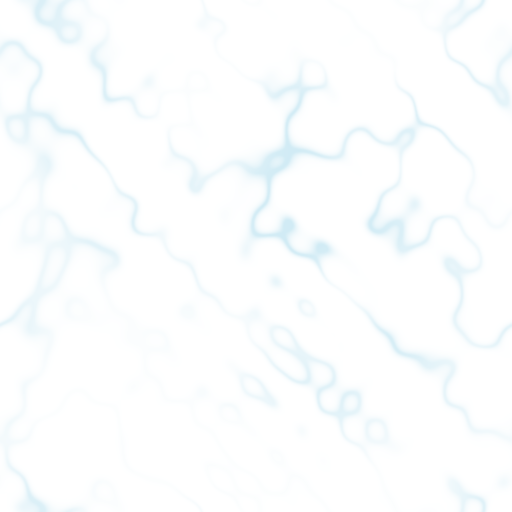
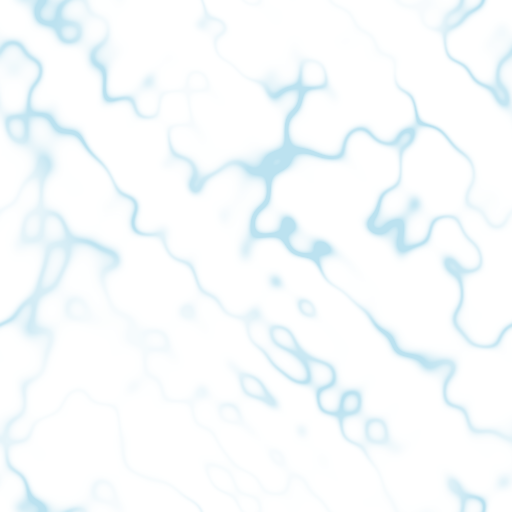
fix(scene): вернуть плотность слоя воды и яркость каустики

diff --git a/draft-front_1.2ds/src/modules/Roleplay/Scene/Service/SceneWaterService.ts b/draft-front_1.2ds/src/modules/Roleplay/Scene/Service/SceneWaterService.ts
@@ -72,12 +72,12 @@ const FLOW_SPEED_IPARI = 0.22;
  * каждый тайл, а так сумма слоёв повторяется через десятки ипари.
  */
 const PLANE_LAYERS: WaterLayer[] = [
-  { material: 'ripples', periodIpari: 8.93, angle: 0, alpha: 0.28, speedIpari: FLOW_SPEED_IPARI * 0.7, skew: 0 },
+  { material: 'ripples', periodIpari: 8.93, angle: 0, alpha: 0.4, speedIpari: FLOW_SPEED_IPARI * 0.7, skew: 0 },
   {
     material: 'ripples',
     periodIpari: 5.31,
     angle: Math.PI / 3.4,
-    alpha: 0.16,
+    alpha: 0.24,
     speedIpari: FLOW_SPEED_IPARI * 0.38,
     skew: Math.PI * 0.65,
   },
@@ -85,7 +85,7 @@ const PLANE_LAYERS: WaterLayer[] = [
     material: 'glints',
     periodIpari: 4.13,
     angle: Math.PI / 7,
-    alpha: 0.24,
+    alpha: 0.32,
     speedIpari: FLOW_SPEED_IPARI * 1.6,
     skew: -0.3,
     additive: true,
@@ -105,7 +105,7 @@ const SURFACE_CAUSTICS: WaterLayer[] = [
     material: 'caustics',
     periodIpari: 2.37,
     angle: 0.36,
-    alpha: 0.09,
+    alpha: 0.1,
     speedIpari: 0.055,
     skew: 0.25,
     additive: true,
@@ -115,7 +115,7 @@ const SURFACE_CAUSTICS: WaterLayer[] = [
     material: 'caustics',
     periodIpari: 4.11,
     angle: -0.72,
-    alpha: 0.055,
+    alpha: 0.06,
     speedIpari: 0.032,
     skew: -0.5,
     additive: true,
